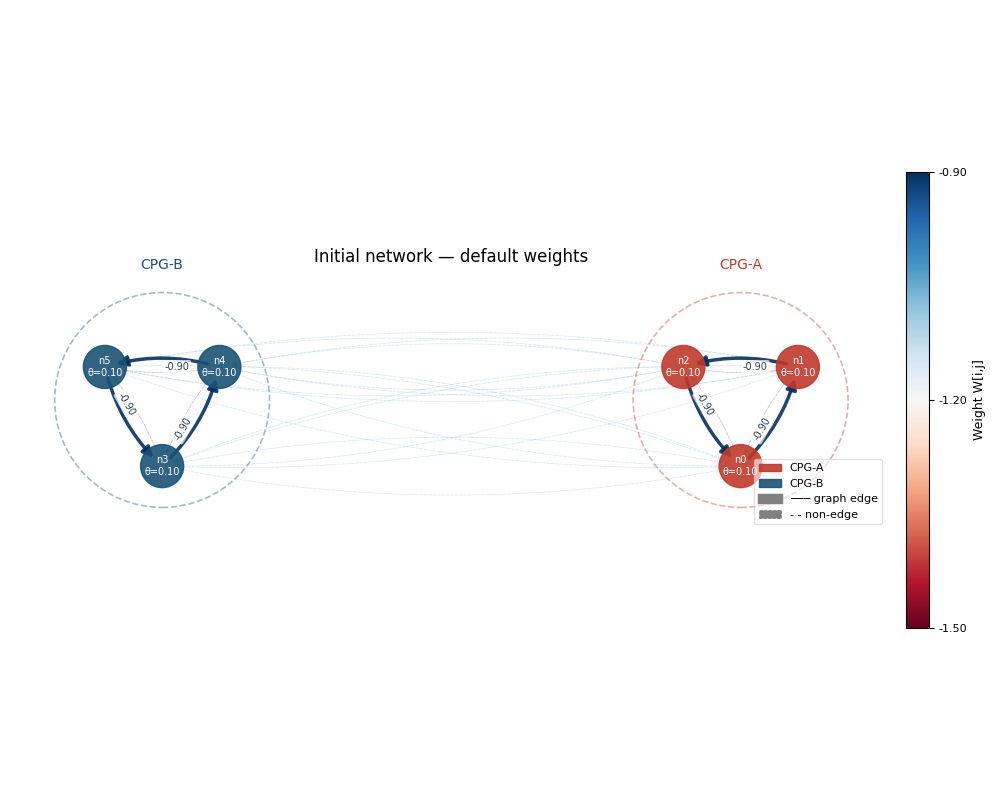
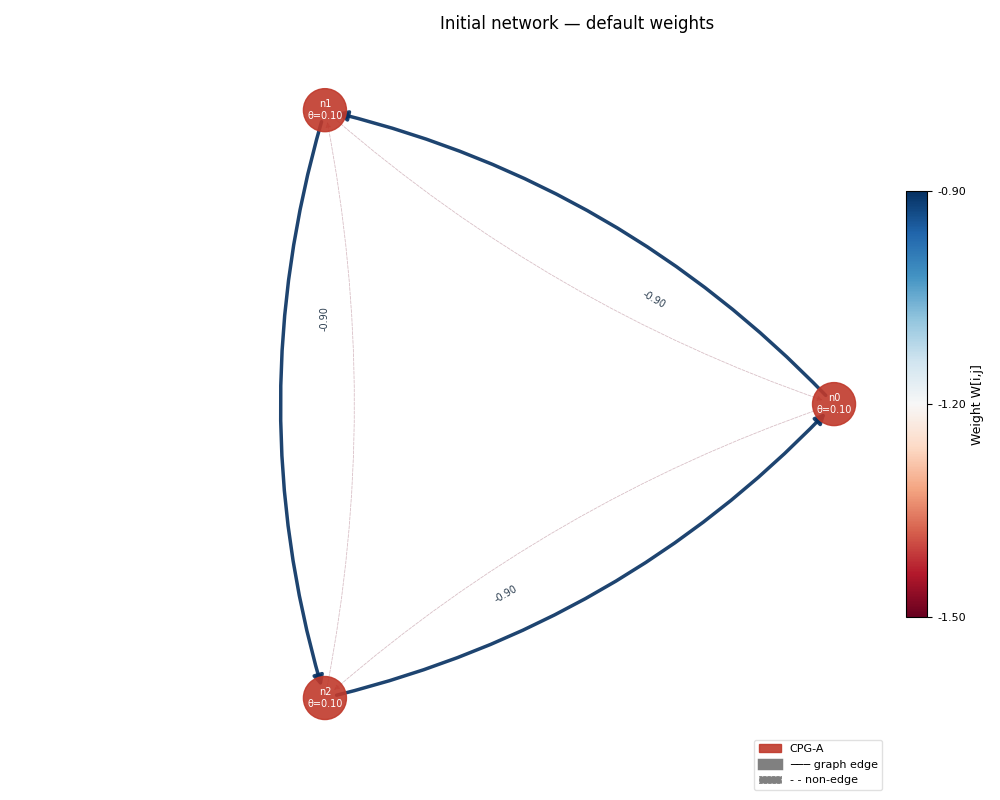
recent

diff --git a/gctln_w_uniq_edges.py b/gctln_w_uniq_edges.py
@@ -40,12 +40,13 @@ class GCTLNPerEdge(nn.Module):
  
         # Per-neuron tonic drive — raw param, mapped through softplus
         # so theta is always positive. Initialized to give theta ~ 0.1
-        self.theta_raw = nn.Parameter(torch.full((self.n,), -2.25))
+        self.theta_raw = nn.Parameter(torch.full((self.n,), -1.84))
  
         # Linear readout
-        self.readout = nn.Linear(self.n, self.n, bias=True)
-        nn.init.eye_(self.readout.weight)
-        nn.init.zeros_(self.readout.bias)
+        # Removed to listen to raw gCTLN activity
+        # self.readout = nn.Linear(self.n, self.n, bias=True)
+        # nn.init.eye_(self.readout.weight)
+        # nn.init.zeros_(self.readout.bias)
  
         # Initialize raw params from spec's eps/delta values
         self._init_from_spec()
@@ -95,8 +96,8 @@ class GCTLNPerEdge(nn.Module):
     def forward(self, t_eval, x0):
         traj = odeint(self.ode_func, x0, t_eval,
                       method='dopri5', rtol=1e-4, atol=1e-5)
-        pred = self.readout(traj)
-        return traj, pred
+        # pred = self.readout(traj)
+        return traj
  
     def limit_cycle_penalty(self):
         W         = self.build_W()
@@ -122,16 +123,15 @@ class GCTLNPerEdge(nn.Module):
         # We want late_mean to stay above some threshold (e.g. 0.05)
         return torch.clamp(0.05 - late_mean, min=0.0) ** 2
  
-    def variance_reward(self, traj):
+    def variance_reward(self, pred):
         """
         Reward temporal variance in the second half of the trajectory.
         Oscillations have high variance; fixed points have zero.
         Returns a penalty (negative reward) that decreases with variance.
         """
-        half = traj.shape[0] // 2
-        late_var = traj[half:].var(dim=0).mean()
-        # We want variance to be at least ~0.01
-        return torch.clamp(0.01 - late_var, min=0.0)
+        half = pred.shape[0] // 2
+        late_var = pred[half:].var(dim=0).mean()
+        return torch.clamp(0.02 - late_var, min=0.0)
  
     def to_numpy_W(self) -> np.ndarray:
         with torch.no_grad():
@@ -208,7 +208,7 @@ class GCTLNPerEdge(nn.Module):
  
 def train(model: GCTLNPerEdge,
           targets: torch.Tensor,
-          t_span: torch.Tensor,
+          t_span_full: torch.Tensor,
           x0: torch.Tensor,
           n_epochs: int = 2000,
           lr: float = 3e-3,
@@ -225,16 +225,30 @@ def train(model: GCTLNPerEdge,
     loss_history = []
  
     for epoch in range(n_epochs):
+
+        ## freeze bias for first 500 epochs
+        # if epoch < 500:
+        #     model.readout.bias.requires_grad_(False)
+        # else:
+        #     model.readout.bias.requires_grad_(True)
+
+        ## Use shorter integration window, then lengthen
+        ## This is to target gradient starvation
+        frac = min(1.0, 0.3 + 0.7 * epoch / 1000) 
+        n_pts = int(frac * len(t_span_full))
+        t_sub = t_span_full[:n_pts]
+        tgt_sub = targets[:n_pts]
+
         optimizer.zero_grad()
-        traj, pred  = model(t_span, x0)
-        recon_loss  = nn.functional.mse_loss(pred, targets)
+        traj  = model(t_sub, x0)
+        recon_loss  = nn.functional.mse_loss(traj, tgt_sub)
         penalty     = model.limit_cycle_penalty()
-        act_pen     = model.activity_penalty(traj)
-        var_pen     = model.variance_reward(traj)
+        # act_pen     = model.activity_penalty(traj)
+        # var_pen     = model.variance_reward(traj)
         loss        = (recon_loss
-                       + penalty_weight  * penalty
-                       + activity_weight * act_pen
-                       + variance_weight * var_pen)
+                       + penalty_weight  * penalty)
+                       # + activity_weight * act_pen
+                       # + variance_weight * var_pen)
         loss.backward()
         torch.nn.utils.clip_grad_norm_(model.parameters(), max_norm=1.0)
         optimizer.step()
@@ -244,8 +258,9 @@ def train(model: GCTLNPerEdge,
         if epoch % print_every == 0:
             print(f"epoch {epoch:4d} | loss {recon_loss.item():.5f} "
                   f"| penalty {penalty.item():.6f} "
-                  f"| act_pen {act_pen.item():.6f} "
-                  f"| var_pen {var_pen.item():.6f}")
+                #   f"| act_pen {act_pen.item():.6f} "
+                #   f"| var_pen {var_pen.item():.6f}"
+                )
  
     return loss_history
  
@@ -257,22 +272,29 @@ if __name__ == "__main__":
         motifs = [
             MotifSpec.cyclic(3, label="CPG-A",
                              eps_init=0.10, delta_init=0.50),
-            MotifSpec.cyclic(3, label="CPG-B",
-                             eps_init=0.10, delta_init=0.50),
+            # MotifSpec.cyclic(3, label="CPG-B",
+            #                  eps_init=0.10, delta_init=0.50),
         ],
         delta_cross = 0.05
     )
     spec.summary()
  
-    plot_network_graph(spec, title="Initial network — default weights")
+    # plot_network_graph(spec, title="Initial network — default weights")
  
     # ── 2. Verify numpy simulation works before training ──────────────────
+    print("Starting pre-training simulation...")
     W_init = spec.to_numpy_W()
-    x0_np  = np.array([0.3, 0.2, 0.1, 0.3, 0.2, 0.1])
-    t, sol = source.simulate(W_init, theta=0.1, T=300,
+    x0_np  = np.array([0.3, 0.2, 0.1
+                       # , 0.15, 0.08, 0.05
+                       ])
+    t_np, sol_np = source.simulate(W_init, theta=0.1, T=300,
                               n_steps=9000, x0=x0_np)
-    cut    = int(0.5 * len(t))
-    std_check = sol[cut:].std(axis=0)
+    print(f"Pre-training simulation complete. sol shape: {sol_np.shape}")
+    targets = torch.from_numpy(sol_np).float()
+    t_span_full = torch.from_numpy(t_np).float()
+    print(f"Targets ready. Shape: {targets.shape}")
+    cut    = int(0.5 * len(t_np))
+    std_check = sol_np[cut:].std(axis=0)
     print(f"\nPre-training numpy simulation std: {std_check.round(4)}")
     print("(nonzero = oscillating, as expected)")
  
@@ -280,7 +302,7 @@ if __name__ == "__main__":
     # KEY FIX: Non-negative targets!  CTLNs produce x >= 0.
     # Use shifted sinusoids in [0, 1] instead of [-1, 1].
     # Longer window (10*pi ~ 5 full cycles) so decay is penalized.
-    t_span       = torch.linspace(0, 10 * np.pi, 1000)
+    t_span_full       = torch.linspace(0, 10 * np.pi, 1000)
     phase_offset = 2 * np.pi / 3
  
     def nonneg_sin(t, phase=0.0, amp=0.4, offset=0.5):
@@ -288,22 +310,24 @@ if __name__ == "__main__":
         return offset + amp * torch.sin(t + phase)
  
     targets = torch.stack([
-        nonneg_sin(t_span, 0),
-        nonneg_sin(t_span, phase_offset),
-        nonneg_sin(t_span, 2 * phase_offset),
-        nonneg_sin(t_span, 0),                    # CPG-B mirrors CPG-A
-        nonneg_sin(t_span, phase_offset),
-        nonneg_sin(t_span, 2 * phase_offset),
+        nonneg_sin(t_span_full, 0),
+        nonneg_sin(t_span_full, phase_offset),
+        nonneg_sin(t_span_full, 2 * phase_offset),
+        # nonneg_sin(t_span_full, 0),                    # CPG-B mirrors CPG-A
+        # nonneg_sin(t_span_full, phase_offset),
+        # nonneg_sin(t_span_full, 2 * phase_offset),
     ], dim=1)
  
     # ── 4. Train ──────────────────────────────────────────────────────────
     model  = GCTLNPerEdge(spec)
-    x0_pt  = torch.tensor([0.15, 0.08, 0.05, 0.15, 0.08, 0.05])
-    loss_h = train(model, targets, t_span, x0_pt, n_epochs=2000)
+    x0_pt  = torch.tensor([0.15, 0.08, 0.05
+                           #, 0.15, 0.08, 0.05
+                           ])
+    loss_h = train(model, targets, t_span_full, x0_pt, n_epochs=2000)
  
     # ── 5. Inspect learned weights ────────────────────────────────────────
     model.get_edge_summary()
-    model.plot_graph(title="Learned gCTLN weights")
+    # model.plot_graph(title="Learned gCTLN weights")
  
     # ── 6. Plot training curve ────────────────────────────────────────────
     plt.figure(figsize=(8, 3))
@@ -327,7 +351,7 @@ if __name__ == "__main__":
             axis_labels.append(f"{m.label} / n{local_idx}")
  
     with torch.no_grad():
-        traj, pred = model(t_span, x0_pt)
+        traj = model(t_span_full, x0_pt)
  
     fig, axes = plt.subplots(n_out, 1,
                               figsize=(11, 2.5 * n_out),
@@ -336,18 +360,19 @@ if __name__ == "__main__":
         axes = [axes]
  
     motif_palette = ["#c0392b", "#1a5276", "#1e8449",
-                     "#7d3c98", "#d35400", "#117a65"]
+                     #"#7d3c98", "#d35400", "#117a65"
+                     ]
  
     for i, (ax, lbl) in enumerate(zip(axes, axis_labels)):
         motif_idx = next(mi for mi, sl in enumerate(spec.slices)
                          if sl.start <= i < sl.stop)
         color = motif_palette[motif_idx % len(motif_palette)]
  
-        ax.plot(t_span, targets[:, i].numpy(),
+        ax.plot(t_span_full, targets[:, i].numpy(),
                 "k--", lw=1.5, label="target")
-        ax.plot(t_span, pred[:, i].numpy(),
-                color=color, lw=1.5, label="gCTLN")
-        ax.plot(t_span, traj[:, i].numpy(),
+        # ax.plot(t_span_full, pred[:, i].numpy(),
+        #         color=color, lw=1.5, label="gCTLN")
+        ax.plot(t_span_full, traj[:, i].numpy(),
                 color=color, lw=0.8, alpha=0.4, linestyle=":",
                 label="raw (pre-readout)")
         ax.set_ylabel(lbl, fontsize=8)
@@ -378,9 +403,9 @@ if __name__ == "__main__":
 #         global_idx = sl.start + local_idx
 #         ax = axes[local_idx, motif_idx]
 #         color = motif_palette[motif_idx % len(motif_palette)]
-#         ax.plot(t_span, targets[:, global_idx].numpy(),
+#         ax.plot(t_span_full, targets[:, global_idx].numpy(),
 #                 "k--", lw=1.5, label="target")
-#         ax.plot(t_span, pred[:, global_idx].numpy(),
+#         ax.plot(t_span_full, pred[:, global_idx].numpy(),
 #                 color=color, lw=1.5, label="gCTLN")
 #         ax.set_title(f"{m.label} / n{local_idx}", fontsize=9)
 #         ax.spines[["top", "right"]].set_visible(False)
